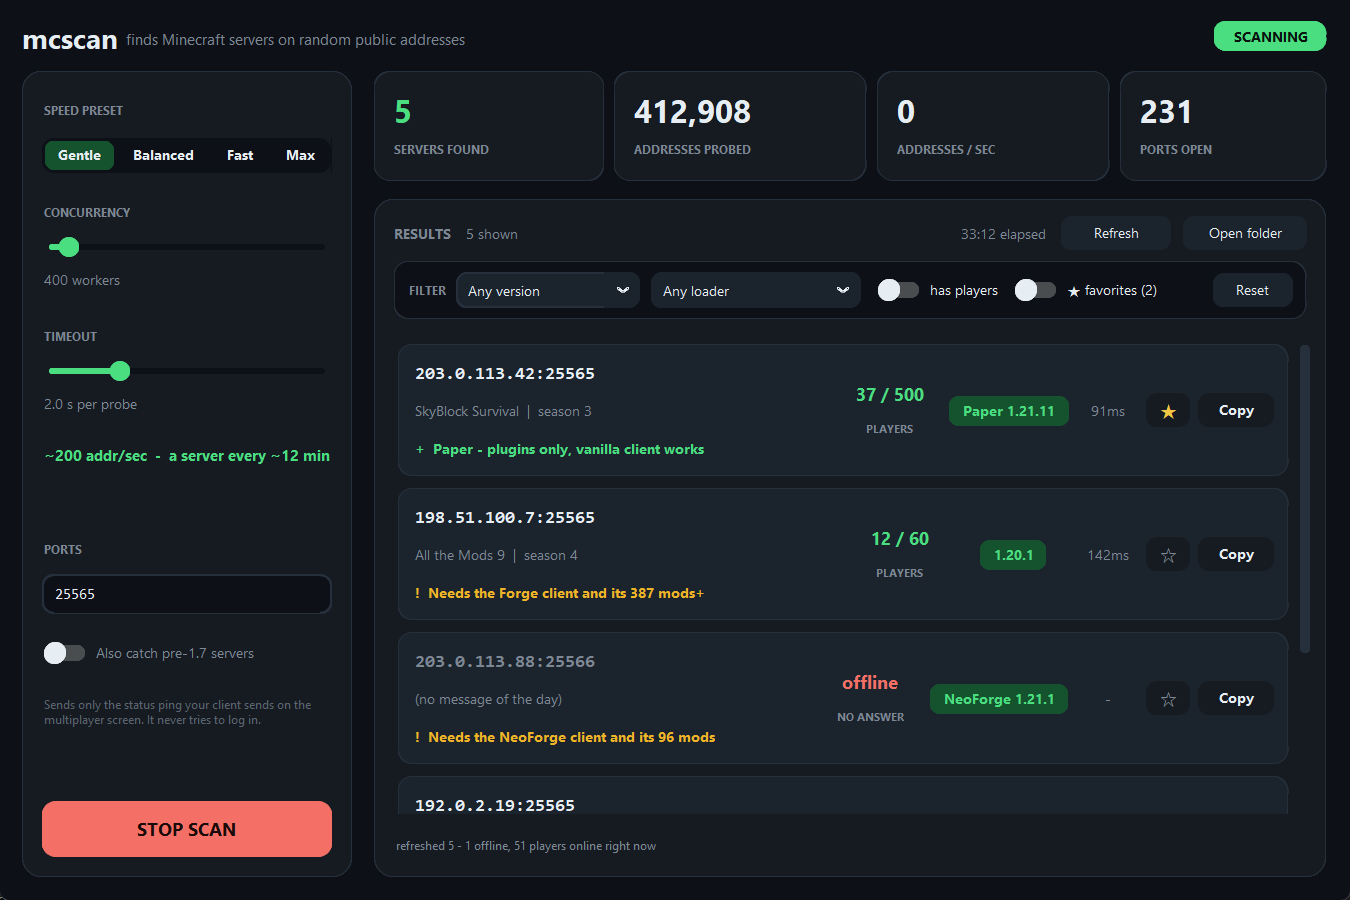
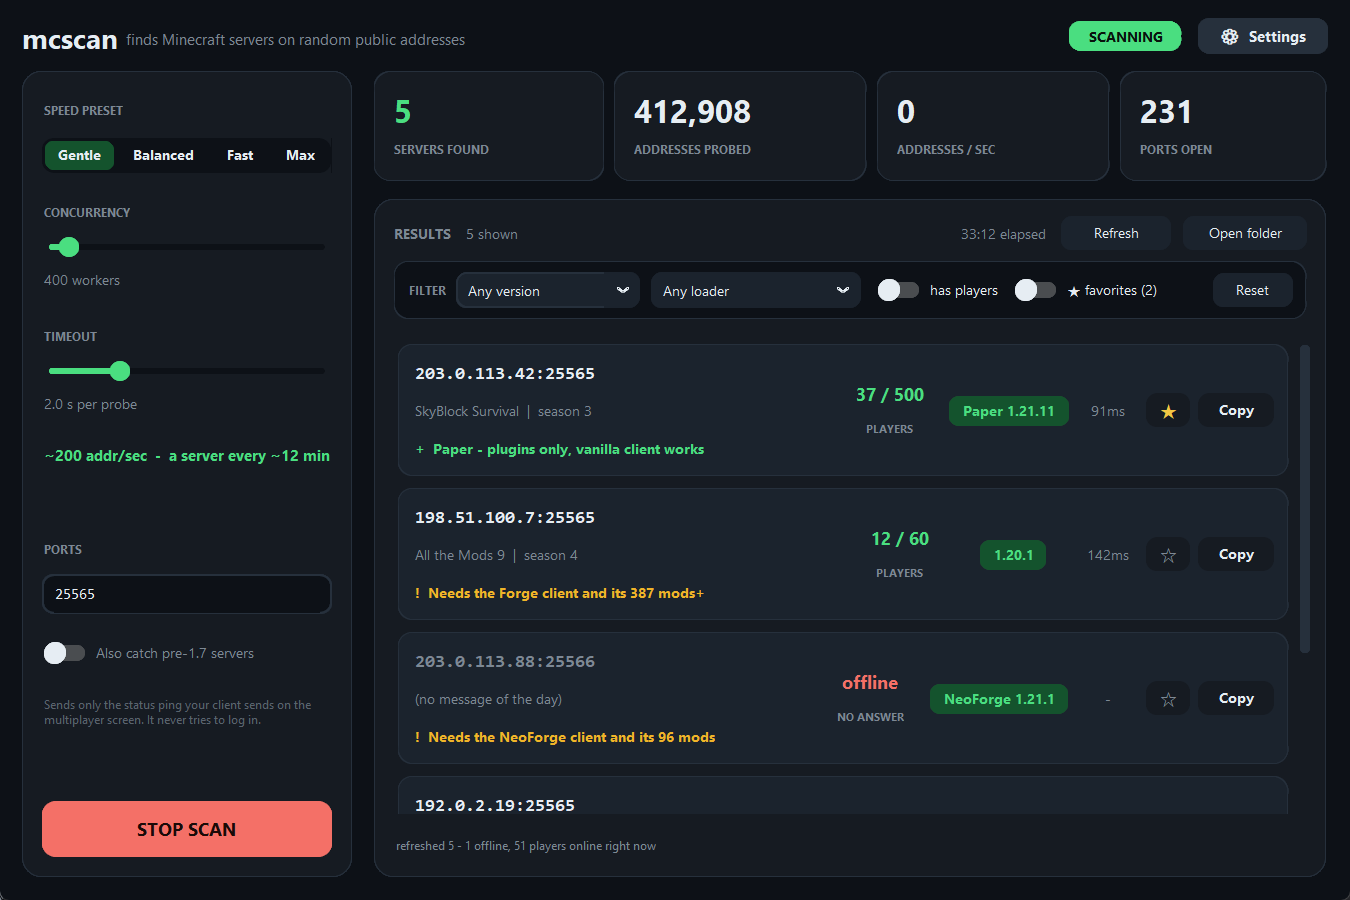
Add settings panel with About and General sections
New ⚙ Settings button opens a modal over the app (dimmed backdrop; real
blur deferred). About shows version, repo link, credits, and an on-demand
"check for updates" button that queries the GitHub releases API only when
clicked, so the app never phones home on its own. General persists startup
result count, default speed preset, default ports, and start-minimized to
settings.json, applied on launch.

Changed region(s): [[0.7778, 0.0, 0.9956, 0.0622]]

diff --git a/gui.py b/gui.py
@@ -14,12 +14,14 @@ import subprocess
 import sys
 import threading
 import time
+import urllib.request
+import webbrowser
 from types import SimpleNamespace
 
 import customtkinter as ctk
 
 from mcscan import (__version__, Scanner, requirements, version_family, version_tuple,
-                    version_matches, family_sort_key, loader_of,
+                    version_matches, family_sort_key, loader_of, parse_ports,
                     KNOWN_VERSIONS, ping_host, load_records, merge_records)
 
 # ------------------------------------------------------------------- appearance
@@ -65,6 +67,48 @@ def resource(name):
 
 def human(n):
     return format(int(n), ",")
+
+
+REPO = "Azed1239/mcscan"
+REPO_URL = "https://github.com/" + REPO
+
+DEFAULT_SETTINGS = {
+    "startup_count": 40,        # how many saved results to load on launch
+    "default_preset": "Gentle",
+    "default_ports": "25565",
+    "start_minimized": False,
+    # "theme" is intentionally left out for now — light mode is its own release.
+}
+
+
+class Settings:
+    """Tiny JSON-backed settings store. Unknown/missing keys fall back to the
+    defaults, so an old or hand-edited file can never crash the app."""
+
+    def __init__(self, path):
+        self.path = path
+        self.data = dict(DEFAULT_SETTINGS)
+        try:
+            with open(path, "r", encoding="utf-8") as fh:
+                saved = json.load(fh)
+            if isinstance(saved, dict):
+                self.data.update({k: saved[k] for k in DEFAULT_SETTINGS if k in saved})
+        except Exception:
+            pass
+
+    def get(self, key):
+        return self.data.get(key, DEFAULT_SETTINGS.get(key))
+
+    def set(self, key, value):
+        self.data[key] = value
+
+    def save(self):
+        try:
+            with open(self.path, "w", encoding="utf-8") as fh:
+                json.dump(self.data, fh, indent=2)
+            return True
+        except Exception:
+            return False
 
 
 # ----------------------------------------------------------------------- widgets
@@ -210,7 +254,9 @@ class App(ctk.CTk):
 
         self.out_path = os.path.join(app_dir(), "servers.jsonl")
         self.fav_path = os.path.join(app_dir(), "favorites.json")
+        self.settings = Settings(os.path.join(app_dir(), "settings.json"))
         self.favorites = self._load_favorites()
+        self.overlay = None
         self.queue = queue.Queue()
         self.scanner = None
         self.thread = None
@@ -233,6 +279,9 @@ class App(ctk.CTk):
         self._sync_rate_label()
 
         self.protocol("WM_DELETE_WINDOW", self._on_close)
+        self.bind("<Escape>", lambda _e: self._close_settings())
+        if self.settings.get("start_minimized"):
+            self.after(200, self.iconify)
         self.after(150, self._poll)
 
     # ------------------------------------------------------------------ layout
@@ -244,6 +293,13 @@ class App(ctk.CTk):
                      font=(UI, 22, "bold")).pack(side="left")
         ctk.CTkLabel(bar, text="  finds Minecraft servers on random public addresses",
                      text_color=MUTED, font=(UI, 12)).pack(side="left", pady=(4, 0))
+
+        self.settings_btn = ctk.CTkButton(bar, text="⚙  Settings", width=104, height=30,
+                                           corner_radius=10, fg_color=CARD,
+                                           hover_color=BORDER, text_color=TEXT,
+                                           font=(UI, 12, "bold"),
+                                           command=self._open_settings)
+        self.settings_btn.pack(side="right", padx=(12, 0))
 
         self.status_pill = ctk.CTkLabel(bar, text="  IDLE  ", text_color=MUTED,
                                         fg_color=CARD, corner_radius=10,
@@ -268,14 +324,14 @@ class App(ctk.CTk):
             unselected_color=BG, unselected_hover_color=BORDER,
             text_color=TEXT, font=(UI, 11, "bold"), command=self._apply_preset)
         self.preset.pack(fill="x", padx=16)
-        self.preset.set("Gentle")
+        self.preset.set(self.settings.get("default_preset"))
 
         heading("concurrency")
         self.conc = ctk.CTkSlider(side, from_=100, to=5000, number_of_steps=49,
                                   button_color=ACCENT, button_hover_color=ACCENT_HI,
                                   progress_color=ACCENT, fg_color=BG,
                                   command=self._on_slider)
-        self.conc.set(400)
+        self.conc.set(self.PRESETS.get(self.settings.get("default_preset"), (400, 2.0))[0])
         self.conc.pack(fill="x", padx=16)
         self.conc_value = ctk.CTkLabel(side, text="400 workers", text_color=MUTED,
                                        font=(UI, 11), anchor="w")
@@ -286,7 +342,7 @@ class App(ctk.CTk):
                                      button_color=ACCENT, button_hover_color=ACCENT_HI,
                                      progress_color=ACCENT, fg_color=BG,
                                      command=self._on_slider)
-        self.timeout.set(2.0)
+        self.timeout.set(self.PRESETS.get(self.settings.get("default_preset"), (400, 2.0))[1])
         self.timeout.pack(fill="x", padx=16)
         self.timeout_value = ctk.CTkLabel(side, text="2.0 s per probe", text_color=MUTED,
                                           font=(UI, 11), anchor="w")
@@ -303,7 +359,7 @@ class App(ctk.CTk):
         self.ports = ctk.CTkEntry(side, corner_radius=10, fg_color=BG,
                                   border_color=BORDER, text_color=TEXT,
                                   font=(MONO, 12), height=34)
-        self.ports.insert(0, "25565")
+        self.ports.insert(0, str(self.settings.get("default_ports")))
         self.ports.pack(fill="x", padx=16)
 
         self.legacy = ctk.CTkSwitch(side, text="Also catch pre-1.7 servers",
@@ -568,7 +624,6 @@ class App(ctk.CTk):
 
     def _start(self):
         try:
-            from mcscan import parse_ports
             ports = parse_ports(self.ports.get())
         except Exception:
             self.footer.configure(text="bad port list - try something like 25565",
@@ -696,9 +751,13 @@ class App(ctk.CTk):
         except Exception:
             return
         # Show the most recent 40, plus every favorite no matter how old it is.
-        recent = hits[-40:]
+        try:
+            count = max(0, int(self.settings.get("startup_count")))
+        except (TypeError, ValueError):
+            count = 40
+        recent = hits[-count:] if count else []
         shown = {self._key(h) for h in recent}
-        older_favs = [h for h in hits[:-40]
+        older_favs = [h for h in (hits[:-count] if count else hits)
                       if self._key(h) in self.favorites and self._key(h) not in shown]
         self._bulk = True
         for hit in older_favs + recent:
@@ -833,6 +892,13 @@ class App(ctk.CTk):
                     self._apply_refresh(*payload)
                 elif kind == "refresh_done":
                     self._finish_refresh()
+                elif kind == "update_result":
+                    self._apply_update_result(payload)
+                elif kind == "update_error":
+                    if self.overlay is not None:
+                        self.update_btn.configure(state="normal")
+                        self.update_status.configure(
+                            text="couldn't reach GitHub (offline?)", text_color=WARN)
                 elif kind == "error":
                     self.footer.configure(text="scan stopped: %s" % payload,
                                           text_color=DANGER)
@@ -857,6 +923,191 @@ class App(ctk.CTk):
             self.card_rate.set("0")
 
         self.after(200, self._poll)
+
+    # ----------------------------------------------------------------- settings
+
+    def _open_settings(self):
+        if self.overlay is not None:
+            return
+        # Scrim over the whole window. No real transparency in Tk, so a solid
+        # near-black frame stands in for a dim; blur/translucency is a later job.
+        self.overlay = ctk.CTkFrame(self, fg_color="#05070b", corner_radius=0)
+        self.overlay.place(relx=0, rely=0, relwidth=1, relheight=1)
+        self.overlay.bind("<Button-1>", lambda _e: self._close_settings())
+
+        card = ctk.CTkFrame(self.overlay, fg_color=CARD, corner_radius=16,
+                            border_width=1, border_color=BORDER, width=560, height=560)
+        card.place(relx=0.5, rely=0.5, anchor="center")
+        card.pack_propagate(False)
+        card.bind("<Button-1>", lambda _e: "break")   # clicks inside must not close
+
+        head = ctk.CTkFrame(card, fg_color="transparent")
+        head.pack(fill="x", padx=22, pady=(18, 6))
+        ctk.CTkLabel(head, text="Settings", text_color=TEXT,
+                     font=(UI, 18, "bold")).pack(side="left")
+        ctk.CTkButton(head, text="✕", width=32, height=30, corner_radius=9,
+                      fg_color=CARD_ALT, hover_color=BORDER, text_color=TEXT,
+                      font=(UI, 14, "bold"), command=self._close_settings).pack(side="right")
+
+        body = ctk.CTkScrollableFrame(card, fg_color="transparent",
+                                      scrollbar_button_color=BORDER,
+                                      scrollbar_button_hover_color=MUTED)
+        body.pack(fill="both", expand=True, padx=14, pady=(0, 8))
+        self._build_about(body)
+        self._build_general(body)
+
+        self.footer_note = ctk.CTkLabel(card, text="", text_color=MUTED, font=(UI, 10))
+        self.footer_note.pack(pady=(0, 12))
+
+    def _close_settings(self):
+        if self.overlay is not None:
+            self.overlay.destroy()
+            self.overlay = None
+
+    def _section(self, parent, title):
+        ctk.CTkLabel(parent, text=title.upper(), text_color=MUTED,
+                     font=(UI, 10, "bold"), anchor="w").pack(fill="x", padx=8, pady=(14, 4))
+        frame = ctk.CTkFrame(parent, fg_color=CARD_ALT, corner_radius=12,
+                             border_width=1, border_color=BORDER)
+        frame.pack(fill="x", padx=6, pady=(0, 4))
+        return frame
+
+    @staticmethod
+    def _row(parent, label):
+        row = ctk.CTkFrame(parent, fg_color="transparent")
+        row.pack(fill="x", padx=14, pady=8)
+        ctk.CTkLabel(row, text=label, text_color=TEXT, font=(UI, 12),
+                     anchor="w").pack(side="left")
+        return row
+
+    def _build_about(self, parent):
+        box = self._section(parent, "About")
+
+        row = self._row(box, "mcscan version")
+        ctk.CTkLabel(row, text="v" + __version__, text_color=ACCENT,
+                     font=(MONO, 12, "bold")).pack(side="right")
+
+        row = self._row(box, "GitHub")
+        ctk.CTkButton(row, text="Open repo  ↗", width=110, height=26, corner_radius=8,
+                      fg_color=CARD, hover_color=BORDER, text_color=TEXT, font=(UI, 11),
+                      command=lambda: webbrowser.open(REPO_URL)).pack(side="right")
+
+        row = self._row(box, "Credits")
+        ctk.CTkLabel(row, text="Azed1239", text_color=MUTED,
+                     font=(UI, 12)).pack(side="right")
+
+        row = self._row(box, "Updates")
+        self.update_btn = ctk.CTkButton(row, text="Check for updates", width=150, height=26,
+                                        corner_radius=8, fg_color=ACCENT_DK,
+                                        hover_color="#1c6b3a", text_color=ACCENT,
+                                        font=(UI, 11, "bold"), command=self._check_updates)
+        self.update_btn.pack(side="right")
+        self.update_status = ctk.CTkLabel(box, text="", text_color=MUTED, font=(UI, 11))
+        self.update_status.pack(fill="x", padx=14, pady=(0, 8))
+
+    def _build_general(self, parent):
+        box = self._section(parent, "General")
+
+        row = self._row(box, "Results loaded on startup")
+        self.set_startup = ctk.CTkEntry(row, width=80, height=28, corner_radius=8,
+                                        fg_color=BG, border_color=BORDER, text_color=TEXT,
+                                        font=(MONO, 12), justify="center")
+        self.set_startup.insert(0, str(self.settings.get("startup_count")))
+        self.set_startup.pack(side="right")
+
+        row = self._row(box, "Default speed preset")
+        self.set_preset = ctk.CTkOptionMenu(
+            row, values=list(self.PRESETS), width=130, height=28, corner_radius=8,
+            fg_color=BG, button_color=BG, button_hover_color=BORDER, text_color=TEXT,
+            font=(UI, 11), dropdown_fg_color=CARD_ALT, dropdown_text_color=TEXT,
+            dropdown_hover_color=BORDER)
+        self.set_preset.set(self.settings.get("default_preset"))
+        self.set_preset.pack(side="right")
+
+        row = self._row(box, "Default ports")
+        self.set_ports = ctk.CTkEntry(row, width=120, height=28, corner_radius=8,
+                                      fg_color=BG, border_color=BORDER, text_color=TEXT,
+                                      font=(MONO, 12))
+        self.set_ports.insert(0, str(self.settings.get("default_ports")))
+        self.set_ports.pack(side="right")
+
+        row = self._row(box, "Start minimized")
+        self.set_minimized = ctk.CTkSwitch(row, text="", width=44, progress_color=ACCENT,
+                                           button_color=TEXT)
+        if self.settings.get("start_minimized"):
+            self.set_minimized.select()
+        self.set_minimized.pack(side="right")
+
+        # Theme is deferred (light mode is its own release), shown so it's clearly planned.
+        row = self._row(box, "Theme")
+        ctk.CTkLabel(row, text="Dark  (light mode coming later)", text_color=MUTED,
+                     font=(UI, 11)).pack(side="right")
+
+        ctk.CTkButton(parent, text="Save", height=38, corner_radius=10, fg_color=ACCENT,
+                      hover_color=ACCENT_HI, text_color="#08130c", font=(UI, 13, "bold"),
+                      command=self._save_settings_panel).pack(fill="x", padx=6, pady=(14, 6))
+
+    def _save_settings_panel(self):
+        try:
+            startup = max(0, int(self.set_startup.get()))
+        except ValueError:
+            self.footer_note.configure(text="'Results loaded on startup' must be a number",
+                                       text_color=DANGER)
+            return
+        try:
+            parse_ports(self.set_ports.get())     # validate before saving
+        except Exception:
+            self.footer_note.configure(text="default ports look wrong - try 25565",
+                                       text_color=DANGER)
+            return
+
+        self.settings.set("startup_count", startup)
+        self.settings.set("default_preset", self.set_preset.get())
+        self.settings.set("default_ports", self.set_ports.get().strip() or "25565")
+        self.settings.set("start_minimized", bool(self.set_minimized.get()))
+        ok = self.settings.save()
+        self.footer_note.configure(
+            text="saved" if ok else "could not write settings.json",
+            text_color=ACCENT if ok else DANGER)
+        if ok:
+            self.after(700, self._close_settings)
+
+    # -------------------------------------------------------------- update check
+
+    def _check_updates(self):
+        self.update_btn.configure(state="disabled")
+        self.update_status.configure(text="checking...", text_color=MUTED)
+        threading.Thread(target=self._run_update_check, daemon=True).start()
+
+    def _run_update_check(self):
+        url = "https://api.github.com/repos/%s/releases/latest" % REPO
+        try:
+            req = urllib.request.Request(url, headers={"Accept": "application/vnd.github+json",
+                                                       "User-Agent": "mcscan"})
+            with urllib.request.urlopen(req, timeout=8) as resp:
+                data = json.load(resp)
+            tag = str(data.get("tag_name", "")).lstrip("vV")
+            self.queue.put(("update_result", tag))
+        except Exception as exc:
+            self.queue.put(("update_error", str(exc)))
+
+    def _apply_update_result(self, tag):
+        if self.overlay is None:
+            return
+        self.update_btn.configure(state="normal")
+        latest = version_tuple(tag)
+        current = version_tuple(__version__)
+        if not latest:
+            self.update_status.configure(text="couldn't read the latest version",
+                                         text_color=WARN)
+        elif latest > current:
+            self.update_status.configure(text="v%s is available - click to open releases"
+                                         % tag, text_color=ACCENT)
+            self.update_btn.configure(text="Get v%s  ↗" % tag,
+                                      command=lambda: webbrowser.open(REPO_URL + "/releases"))
+        else:
+            self.update_status.configure(text="you're on the latest version (v%s)"
+                                         % __version__, text_color=MUTED)
 
     def _on_close(self):
         if self.scanner:

diff --git a/mcscan.py b/mcscan.py
@@ -23,7 +23,7 @@ import sys
 import time
 from bisect import bisect_right
 
-__version__ = "1.1.0"
+__version__ = "1.2.0"
 
 # ---------------------------------------------------------------- address pool
 

diff --git a/README.md b/README.md
@@ -99,6 +99,20 @@ a loader.
 Filters only hide rows — scanning and saving are unaffected, so loosening a filter brings
 servers straight back without rescanning, and `servers.jsonl` always has everything.
 
+## Settings
+
+The **⚙ Settings** button (top right) opens a panel over the app with two sections:
+
+- **About** — the version you're on, a link to this repo, credits, and a **Check for
+  updates** button. That button only contacts GitHub when you click it (it asks the
+  releases API for the latest tag and points you at the download if there's a newer one),
+  so the app never phones home on its own.
+- **General** — how many saved results to load on startup, your default speed preset and
+  ports (so it stops resetting to Gentle / 25565 every launch), and start-minimized.
+
+Settings live in `settings.json` next to the program. Theme / light mode is planned but
+not in yet — the app is dark for now.
+
 ## Favorites and refresh
 
 **★ Star** any result to bookmark it. Favorites are kept in `favorites.json` next to the
